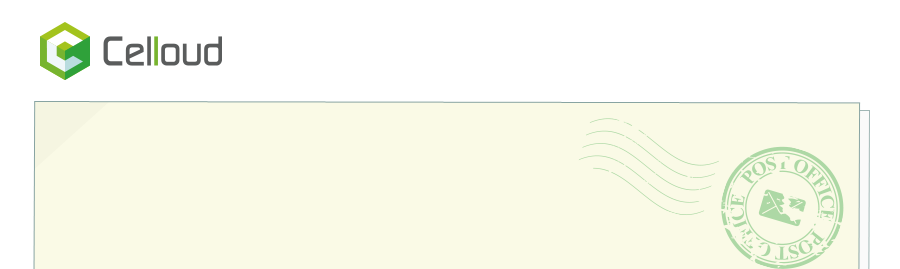
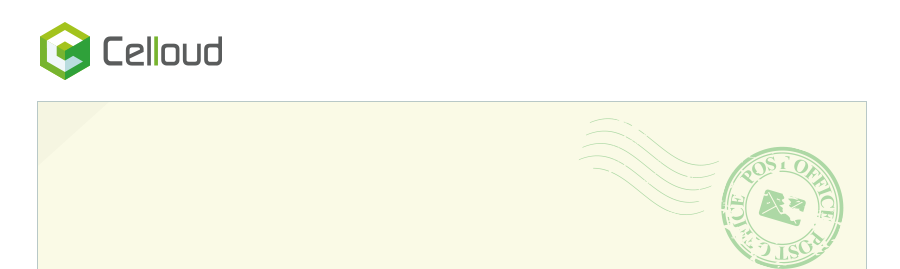
update:邮件模板图片替换

Changed region(s): [[0.2489, 0.3569, 0.9644, 0.4164], [0.0311, 0.3569, 0.0933, 1.0], [0.9333, 0.684, 0.9644, 1.0]]

diff --git a/emailTemplate/pwd_find.html b/emailTemplate/pwd_find.html
@@ -1,23 +1,25 @@
 <!DOCTYPE html>
 <html style="color: #323232;width: 100%;min-height: 100%;background: #fffffb;padding:0;margin:0;font-family: '微软雅黑';font-size: 16rem;">
+
 	<head>
 		<meta charset="UTF-8">
 		<title>celLoud邮件</title>
 	</head>
-	
-	<body style="color: #323232;width: 100%;min-height: 100%;padding:0;margin:0; font-family: '微软雅黑';font-size: 16rem;background: #fffffb;">
+
+	<body style="color: #323232;width: 100%;height: 100%;padding:0;margin:0; font-family: '微软雅黑';font-size: 16px;background: #fffffb;">
 		<div style="color: #323232;padding:0;margin:0;width:900px;font-family: '微软雅黑';font-size: 16px;margin: 0 auto;overflow: hidden;">
-			<table border="0" cellspacing="0" cellpadding="0"  align="center">
-				<tbody>
+			<table border="0" cellspacing="0" cellpadding="0" align="center" style="overflow: hidden;">
+				<tbody style="overflow: hidden;">
 					<!--------top-------->
-					<tr align="center" style="padding:0;margin:0;display:block;width: 900px;height: 269px;background: url('https://www.celloud.cc/images/email/top.png') no-repeat;overflow: hidden;">
+					<tr align="center" style="padding:0;margin:0;display:block;width: 900px;height: 269px;background: url('img/top.png') no-repeat;overflow: hidden;">
 						<td style="display:block; width: 820px;height: 269px;margin: 54px auto;overflow: hidden;text-align: left;">
-							<div ><a  href='${home}' style="color: #323232;padding:0;margin:0;font-family: '微软雅黑';font-size: 16px; text-decoration: none;color: #969696;font-size: 14px;float:right;">登录</a></div>
-							<div ><h2 style="color: #323232;padding:0;margin:0;font-family: '微软雅黑';font-size: 16px;text-align: center;font-size: 18px;color: #323232;font-weight: bold;margin-top: 130px;">系统邮件</h2></div>
+							<div><a href='${home}' style="color: #323232;padding:0;margin:0;font-family: '微软雅黑';font-size: 16px; text-decoration: none;color: #969696;font-size: 14px;float:right;">登录</a></div>
+							<div>
+								<h2 style="color: #323232;padding:0;margin:0;font-family: '微软雅黑';font-size: 16px;text-align: center;font-size: 18px;color: #323232;font-weight: bold;margin-top: 130px;">找回密码</h2></div>
 						</td>
 					</tr>
 					<!-------middle---------->
-					<tr align="center" style="padding:0;margin:0;display:block;width: 900px;height:auto;background: url('https://www.celloud.cc/images/email/middle.png') repeat-y;overflow: hidden;">
+					<tr align="center" style="padding:0;margin:0;display:block;width: 900px;height:100%;background: url('img/middle.png') repeat-y;overflow: hidden;">
 						<td style="display:block; width: 700px;height: auto;margin: 0 auto;text-align: left; overflow: hidden;  ">
 							<span style="color: #323232;color: #323232;padding:0;margin:0;font-family: '微软雅黑';font-size: 16px; margin: 0px 0 30px 0 ;display: block;">尊敬的用户您好：</span>
 							<p style="color: #323232;color: #323232;padding:0;margin:0;font-family: '微软雅黑';font-size: 16px;  margin-bottom: 19px;text-indent:32px;">您收到这封电子邮件是因为您（也可能是某人冒充您的名义）申请找回 CelLoud 的密码。假如这不是您本人所操作，请不用理会这封电子邮件，但是如果您持续收到这类的信件骚扰，请您尽快联络管理员（Email:service@celloud.cn）。</p>
@@ -29,13 +31,14 @@
 						</td>
 					</tr>
 					<!------bottom---------->
-					<tr align="center" style="padding:0;margin:0;display:block;width: 900px;height: 490px;background: url('https://www.celloud.cc/images/email/bottom.png') no-repeat;overflow: hidden;">
+					<tr align="center" style="padding:0;display:block;width:900px;height:490px;background: url('img/bottom.png') no-repeat;overflow: hidden;">
 						<td style="display:block;width: 700px;height: 490px;margin: 0 auto;text-align: left; overflow: hidden;  ">
-							
+							<div style="width: 700px;height:490px;"></div>
 						</td>
 					</tr>
 				</tbody>
-			</table>	
+			</table>
 		</div>
 	</body>
+
 </html>
